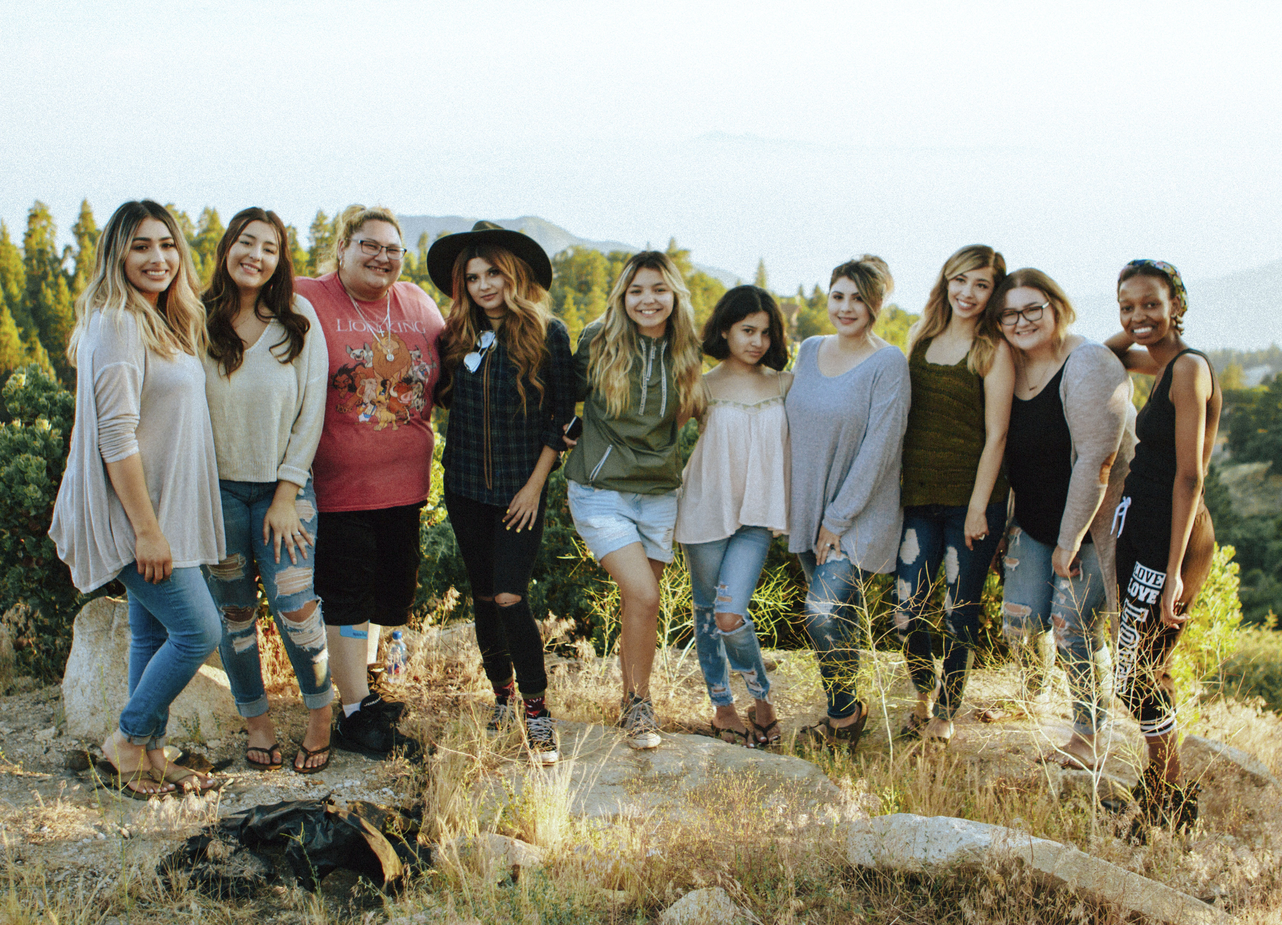
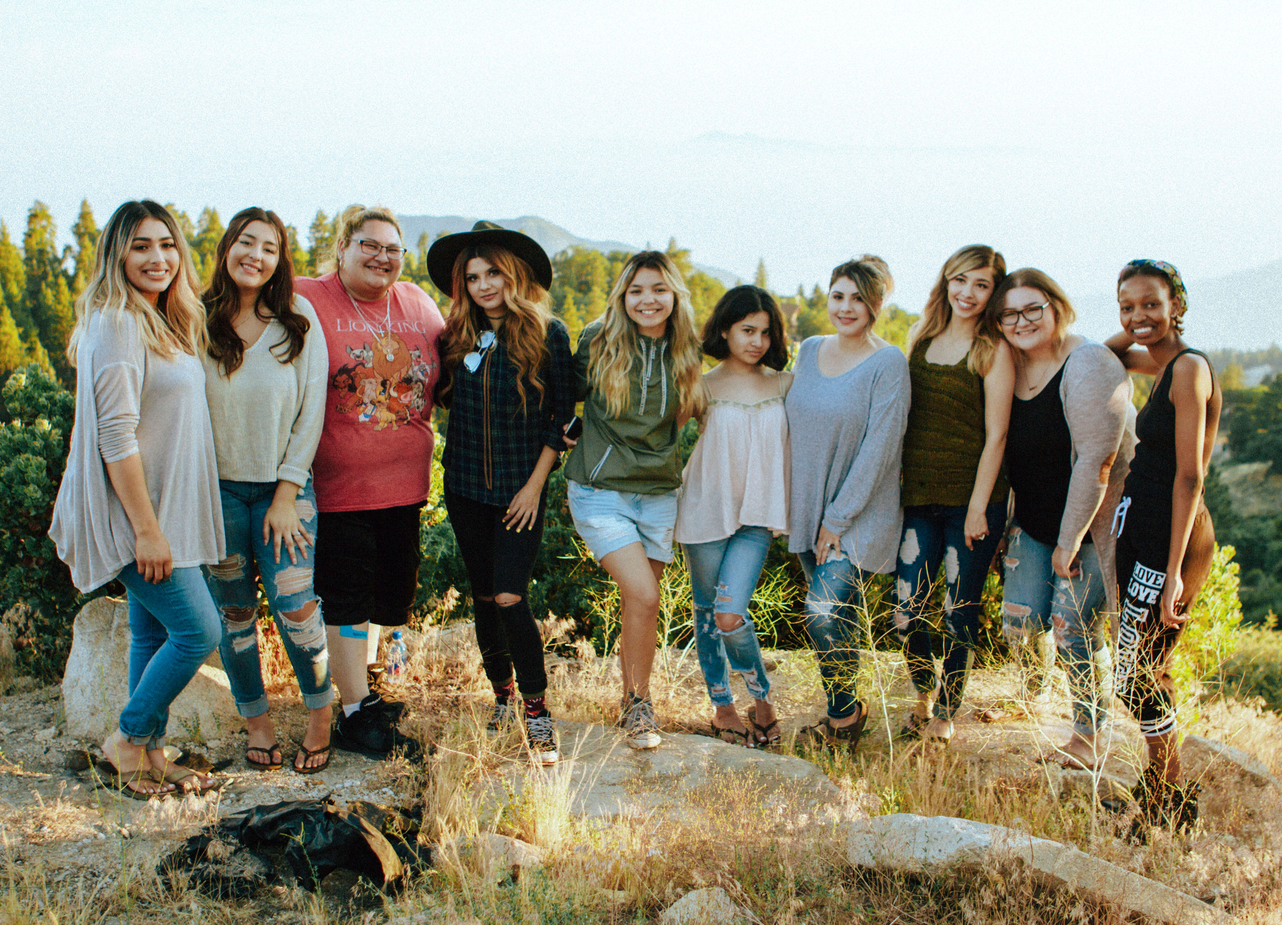
Adjusted images to 72 PPI resolution

diff --git a/css/main.css b/css/main.css
@@ -144,11 +144,12 @@ textarea {
    }
     
    img {
-    
+    width: 100%;
    }
     
    figure {
-    
+    width: 100%;
+    margin: 16px 0;
    }
     
    address {
@@ -186,6 +187,10 @@ header .content-wrapper {
   margin: 0;
 }
 
+header figure {
+  width: 70%;
+}
+
 header nav {
   display: flex;
   justify-content: space-around;
@@ -206,6 +211,22 @@ header nav ul {
   width: 100vw;
   margin: calc(-1 * ((100vw - 100%) / 2));
   background-color: #3a3a3a; 
+}
+
+.hero-area {
+  background-image: url(../img/hero.jpg);
+  background-size: cover;
+  background-repeat: no-repeat;
+  background-position: center;
+  background-color: #1b2821;
+}
+
+.features {
+  background-image: url('../img/outdoors.jpg');
+  background-size: cover;
+  background-repeat: no-repeat;
+  background-position: center;
+  background-color: #333
 }
 
 footer {
@@ -509,6 +530,10 @@ input[type=button] {
     justify-content: space-between;
   }
 
+  header figure {
+    width: 35%;
+  }
+
   header nav {
     display: flex;
     justify-content: flex-end;
@@ -559,14 +584,26 @@ input[type=button] {
   .reviews article {
     display: flex;
     justify-content: space-between;
-    width: 48%;
-    align-items: flex-end;
+    align-items: flex-start;
+  }
+
+  .reviews h2 {
+    width: 85%;
   }
 
   .reviews figure {
     width: 48%;
     margin: 0;
   }
+
+  .reviews article .reviews-content {
+    width: 48%;
+  }
+
+  .reviews h4 {
+    width: 75%;
+    margin: 0;
+}
 
   /* Home Page - Footer */
   footer .content-wrapper {

diff --git a/index.html b/index.html
@@ -23,9 +23,11 @@
   <!-- Header -->
   <header>
     <div class="content-wrapper">
-      <a href="#">
-        <img src="#" alt="Unplugged logo">
-      </a>
+      <figure>
+        <a href="#">
+          <img src="img/unpluggedlogo.png" alt="Unplugged logo">
+        </a>
+      </figure>
       <div class="header-divider"></div>
       <nav>
         <ul>
@@ -112,17 +114,16 @@
     <section class="reviews">
       <div class="content-wrapper">
         <h2>Be a better team in 5 days, like this one.</h2>
-          <figure>
-            <img src="" alt="">
-          </figure>
         <article>  <!-- The <article> tag specifies independent, self-contained content. -->
+          <figure>
+            <img src="img/team.jpg" alt="Team">
+          </figure>
           <div class="reviews-content">
             <h4>LaCrue Bottling Co. </br>October 2018</h4>
             <p>
               Lorem ipsum dolor sit amet, consectetur adipiscing elit, sed do eiusmod tempor incididunt ut labore et
               dolore magna aliqua. Ut enim ad minim veniam, quis nostrud exercitation ullamco laboris nisi ut aliquip 
-              ex ea commodo consequat. Duis aute irure dolor in reprehenderit in voluptate velit esse cillum dolore eu 
-              fugiat nulla pariatur.
+              ex ea commodo consequat.
             </p>
           </div>
         </article>
